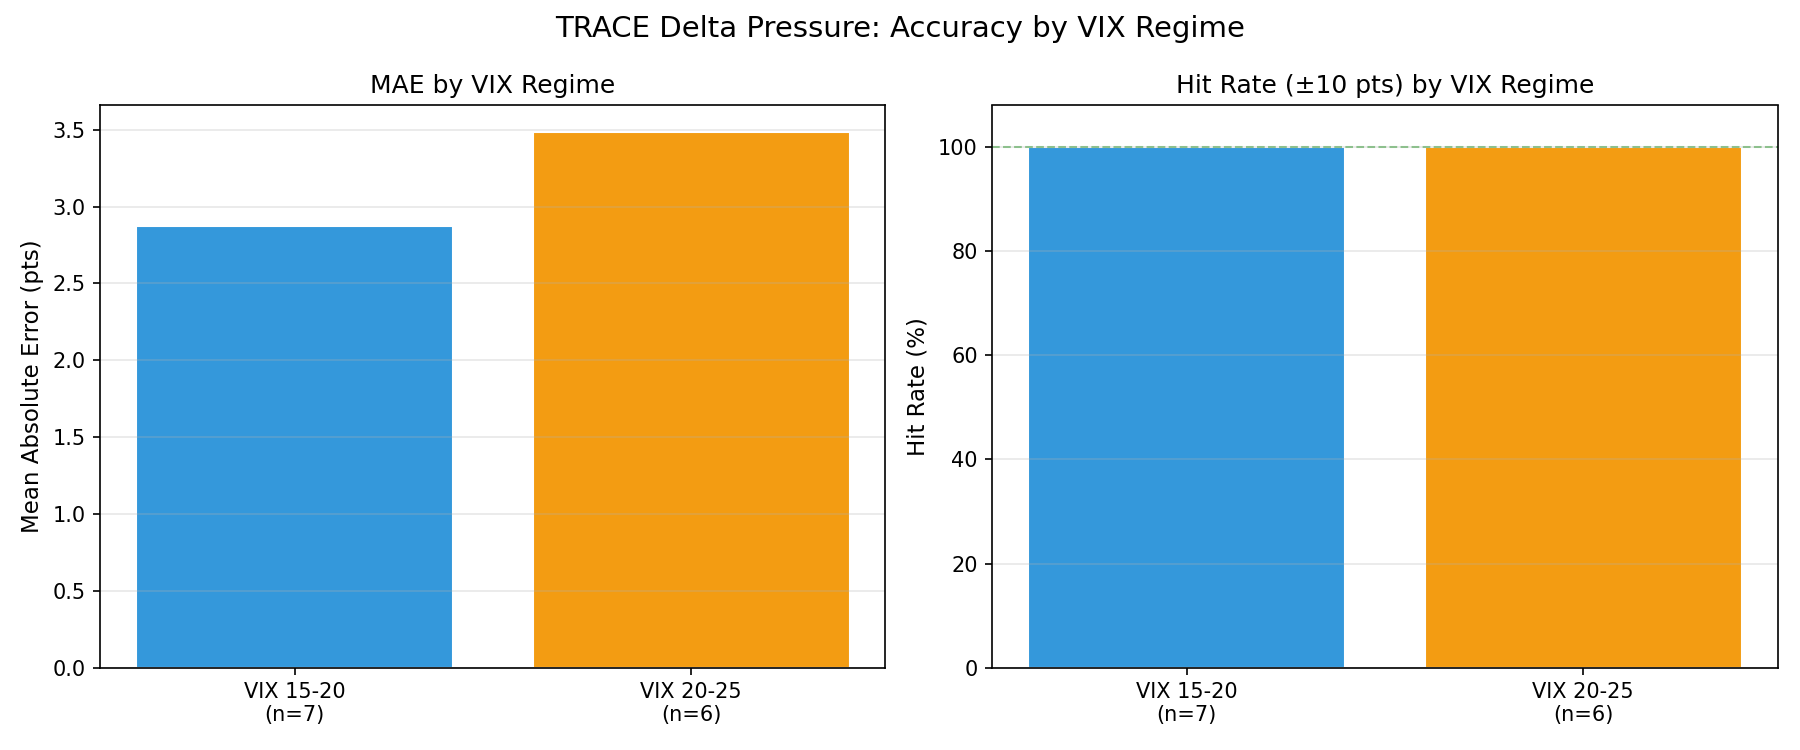
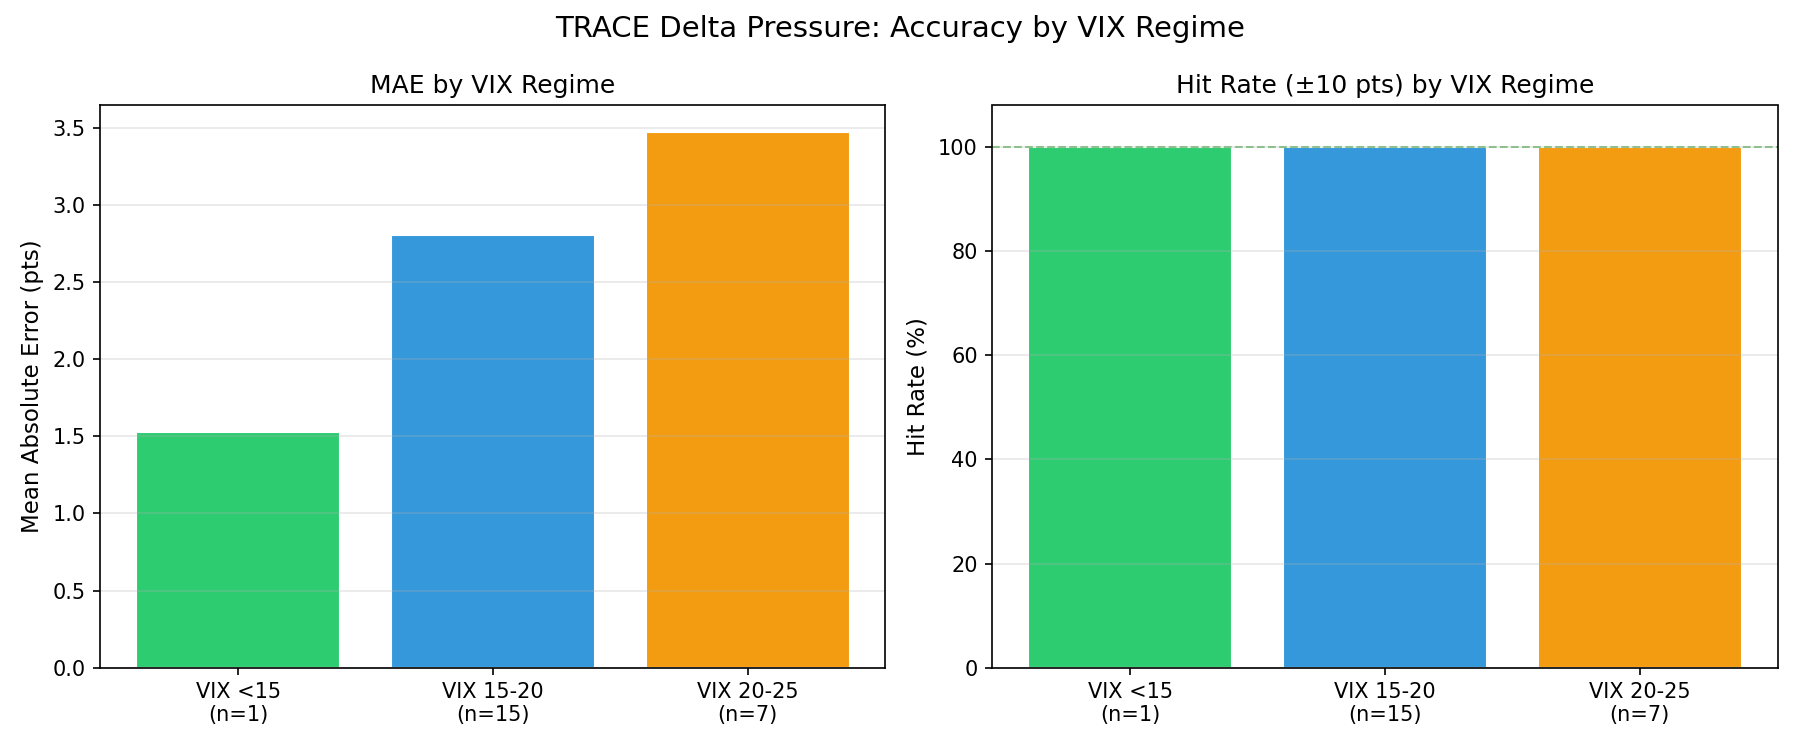
feat(ml/trace): backfill VIX from market_snapshots via LATERAL join
Add market_snapshots as a fallback VIX source in sync_from_db.py using
LEFT JOIN LATERAL + COALESCE. training_features is authoritative when
present; market_snapshots fills the gap for older dates.

Coverage improves from 13/38 to 23/38 days. Regenerated plots and
findings.json with updated regime breakdown (15-20: n=15, 20-25: n=7).
Direction accuracy drops to 71.4% at VIX 20-25 — small sample but
consistent with increased regime uncertainty at elevated vol.

diff --git a/ml/trace/sync_from_db.py b/ml/trace/sync_from_db.py
@@ -9,8 +9,8 @@ Usage:
 
 Reads DATABASE_URL from ml/.env or environment.
 Writes: ml/trace/results/predictions.csv
-        Columns include VIX context from training_features (LEFT JOIN — may be NULL
-        for dates before the ML pipeline ran).
+        Columns include VIX context (COALESCE of training_features and the earliest
+        market_snapshots entry per day — covers dates before the ML pipeline ran).
 """
 
 import os
@@ -50,18 +50,26 @@ def main() -> None:
         df = pd.read_sql(
             """
             SELECT
-                tp.date::text        AS date,
+                tp.date::text                              AS date,
                 tp.predicted_close,
                 tp.current_price,
                 tp.actual_close,
                 tp.confidence,
                 tp.notes,
-                tf.vix::float        AS vix,
-                tf.vix1d::float      AS vix1d,
-                tf.vix9d::float      AS vix9d,
-                tf.vvix::float       AS vvix
+                COALESCE(tf.vix::float,   ms.vix::float)   AS vix,
+                COALESCE(tf.vix1d::float, ms.vix1d::float) AS vix1d,
+                COALESCE(tf.vix9d::float, ms.vix9d::float) AS vix9d,
+                COALESCE(tf.vvix::float,  ms.vvix::float)  AS vvix
             FROM trace_predictions tp
             LEFT JOIN training_features tf ON tf.date = tp.date
+            LEFT JOIN LATERAL (
+                SELECT vix, vix1d, vix9d, vvix
+                FROM market_snapshots
+                WHERE date = tp.date
+                ORDER BY (spx_open IS NULL OR spx_open = 'NaN') ASC,
+                         entry_time ASC
+                LIMIT 1
+            ) ms ON true
             ORDER BY tp.date
             """,
             conn,
